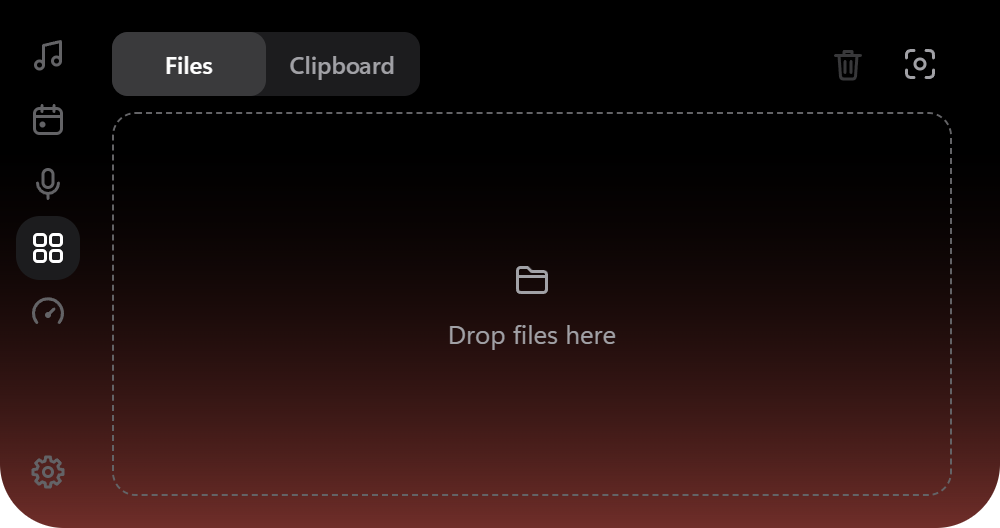
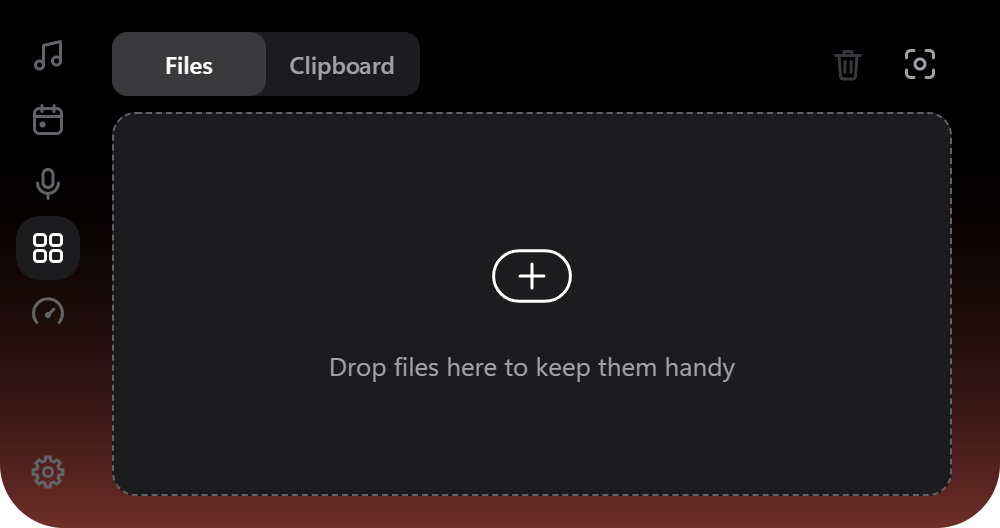
feat: make the file drop zone look like somewhere to drop files
A thin outline on black didn't read as a target. It's now a filled well with a
dashed edge and a plus in a pill, and a file dragged over it turns the edge and
icon green and says "Release to add".

diff --git a/src/extensions.ts b/src/extensions.ts
@@ -24,7 +24,7 @@ export function mountExtensions():void {
  // The tab rail moves the actions into the segmented row
  const actions=el('div');actions.dataset.sectionActions='extensions';
  // The one drop target: fills an empty shelf, a slim strip above a list
- const drop=button('',()=>invoke('shelf_pick'),'shelf-drop');drop.className='shelf-drop';drop.innerHTML=SVG_ICONS.folder+'<span>Drop files here</span>';drop.title='Pick files';drop.setAttribute('aria-label','Drop files here, or select to pick files');drop.dataset.noSwipe='';
+ const drop=button('',()=>invoke('shelf_pick'),'shelf-drop');drop.className='shelf-drop';drop.innerHTML=SVG_ICONS.addFiles+'<span class="drop-text">Drop files here to keep them handy</span>';drop.title='Pick files';drop.setAttribute('aria-label','Drop files here to keep them handy, or select to pick files');drop.dataset.noSwipe='';
  const body=el('div','','ext-body');status=el('p','','ext-status');status.setAttribute('role','status');
  page.append(actions,drop,body,status);container.append(page);
  render=()=>{
@@ -46,7 +46,7 @@ export function mountExtensions():void {
    (next??drop).focus();
   }
  };
- window.addEventListener('tuck-drop-active',event=>page.classList.toggle('drag-over',(event as CustomEvent).detail===true));
+ window.addEventListener('tuck-drop-active',event=>{const over=(event as CustomEvent).detail===true;page.classList.toggle('drag-over',over);drop.querySelector('.drop-text')!.textContent=over?'Release to add':'Drop files here to keep them handy';});
  render();
  if(isTauri()){
   void listen<ExtensionSnapshot>('extension-state',event=>{current=event.payload;render();}).catch(()=>{if(status)status.textContent='Could not subscribe to Windows state';});

diff --git a/src/extensions.css b/src/extensions.css
@@ -11,7 +11,9 @@
   width: 100%;
   min-height: var(--hit-sm);
   flex-direction: column;
-  gap: var(--s-2);
+  gap: var(--s-3);
+  /* A filled well with a dashed edge reads as somewhere to put things, not as an outline */
+  background: var(--raise);
   border: 1px dashed var(--ink-3);
   border-radius: var(--r-lg);
   color: var(--ink-2);
@@ -23,9 +25,19 @@
     transform var(--d-instant) var(--ease-out);
 }
 
+.shelf-drop svg.ico {
+  width: var(--s-12);
+  height: var(--s-12);
+  color: var(--ink);
+  transition:
+    color var(--d-fast) var(--ease-out),
+    transform var(--d-base) var(--spring-enter);
+}
+
 .has-files .shelf-drop {
   flex: 0 0 var(--hit-sm);
   flex-direction: row;
+  gap: var(--s-2);
   border-radius: var(--r-md);
   font-size: var(--t-sm);
 }
@@ -36,14 +48,21 @@
 }
 
 .shelf-drop:hover {
+  background: var(--raise-hover);
   color: var(--ink);
   border-color: var(--ink-2);
 }
 
 .extensions.drag-over .shelf-drop {
-  background: var(--raise);
+  background: var(--raise-hover);
   color: var(--ink);
-  border-color: var(--ink);
+  border-color: var(--ok);
+}
+
+/* The one thing that moves: the file is over a place that will take it */
+.extensions.drag-over .shelf-drop svg.ico {
+  color: var(--ok);
+  transform: scale(1.12);
 }
 
 .shelf-drop:active {

diff --git a/src/icons.ts b/src/icons.ts
@@ -57,6 +57,7 @@ export const SVG_ICONS = {
   pin: ico('<path class="pin-head" d="M7.25 2.75h5.5l-.75 5 2.75 3v1.5h-9.5v-1.5l2.75-3z"/><path d="M10 12.25v5"/>'),
   close: ico('<path d="m5.25 5.25 9.5 9.5M14.75 5.25l-9.5 9.5"/>'),
   trash: ico('<path d="M3.75 5.75h12.5M8 5.75v-2h4v2M5.5 5.75l.75 10.5a1.5 1.5 0 0 0 1.5 1.25h4.5a1.5 1.5 0 0 0 1.5-1.25l.75-10.5"/><path d="M8.5 8.75v5.5M11.5 8.75v5.5"/>'),
+  addFiles: ico('<rect x="2" y="4.75" width="16" height="10.5" rx="5.25"/><path d="M10 7.5v5M7.5 10h5"/>'),
   plus: ico('<path d="M10 4.25v11.5M4.25 10h11.5"/>'),
   minus: ico('<path d="M4.25 10h11.5"/>'),
   folder: ico('<path d="M2.75 6.25v-1a1.5 1.5 0 0 1 1.5-1.5h3.5l2 2h6a1.5 1.5 0 0 1 1.5 1.5v7.5a1.5 1.5 0 0 1-1.5 1.5H4.25a1.5 1.5 0 0 1-1.5-1.5z"/><path d="M2.75 8.25h14.5"/>'),

diff --git a/DESIGN.md b/DESIGN.md
@@ -92,7 +92,7 @@ Saved `lastTab` values from older versions (`media`, `today`, `tools`, `usage`) 
 
 Dictation: a status row (dot, one status line that may wrap to two for an error, and the model name), the live transcript filling the room left on a `--raise-subtle` surface, then cancel, a 56px record control and insert. Live words follow the newest line and the text can be selected. A missing model disables record, says so and swaps the model name for a Model settings link to that page of Settings.
 
-Files: one dashed drop target, the only dashed element in the product. On an empty shelf it fills the content area with a folder icon and "Drop files here"; with files it is a slim 32px strip above the list. Clicking it picks files. A drag over the island highlights it (`--raise` fill, ink text and border).
+Files: one dashed drop target, the only dashed element in the product. It's a filled `--raise` well with a dashed edge, so it reads as somewhere to put things. On an empty shelf it fills the content area with a plus in a pill and "Drop files here to keep them handy"; with files it is a slim 32px strip above the list. Clicking it picks files. A file dragged over the island turns the edge and icon green, lifts the icon slightly and changes the text to "Release to add".
 
 ## Motion
 
